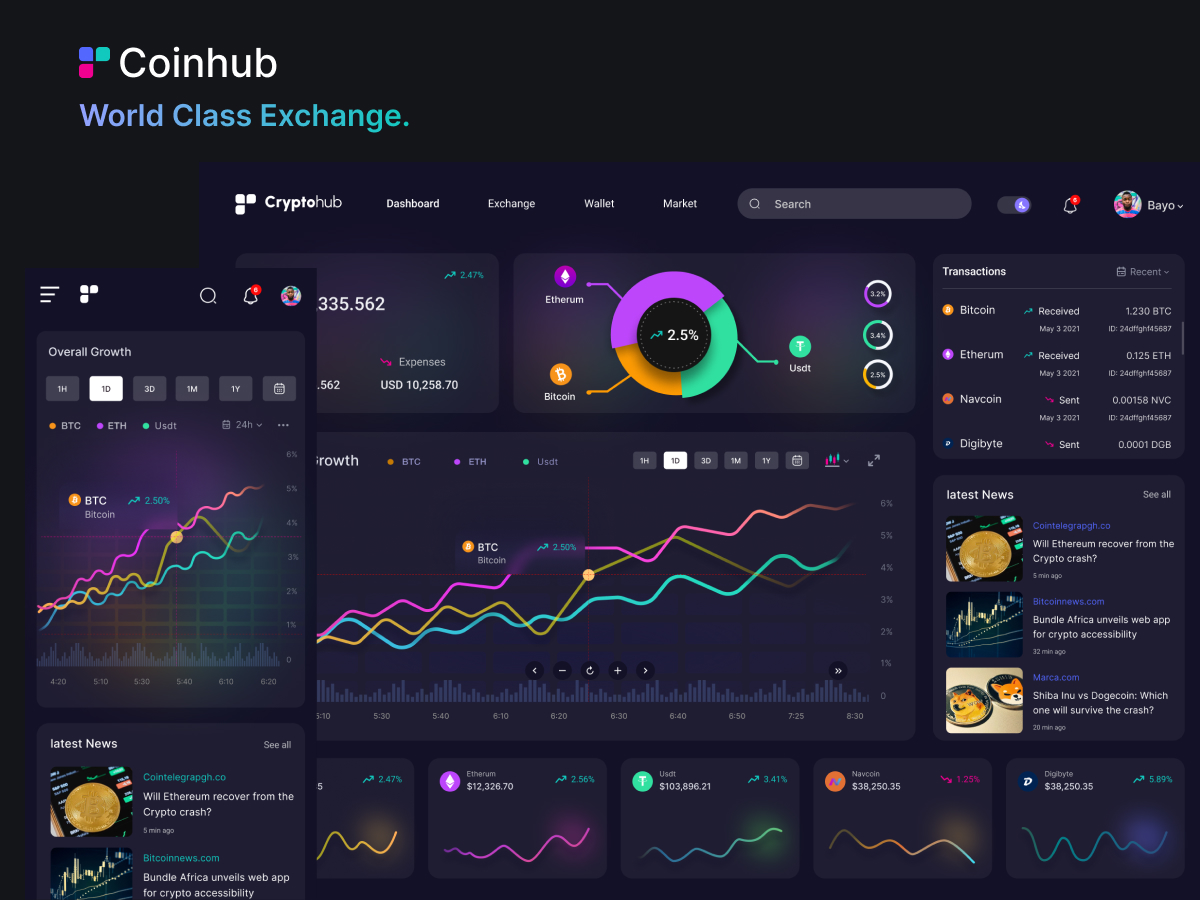
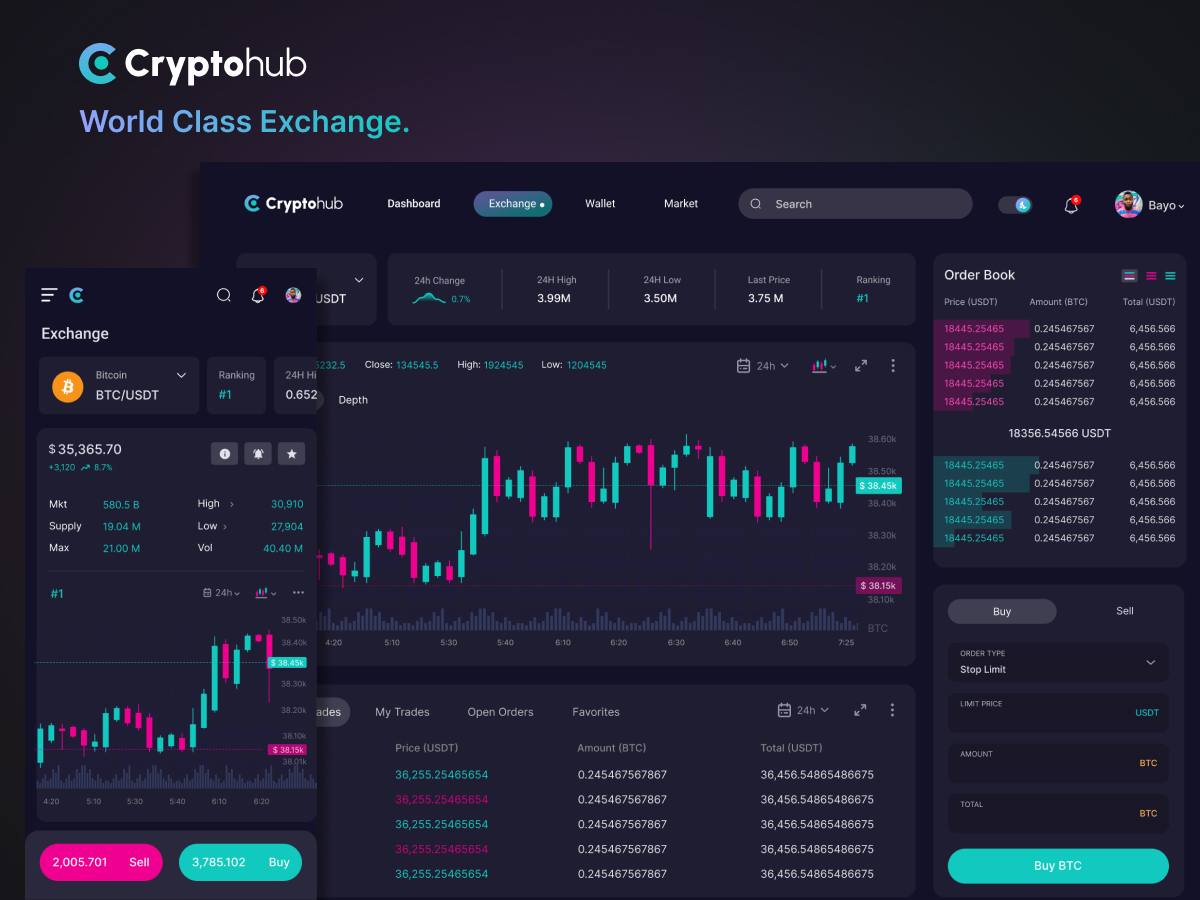
ch

diff --git a/index.html b/index.html
@@ -713,9 +713,22 @@ exciting information about Rwanda
           <div class="portfolio-wrap">
             <img src="assets/img/portfolio/crptov2.jpg" class="img-fluid" alt="">
             <div class="portfolio-info">
-              <h4>Travel mobile app</h4>
+              <h4>Crpto Exchange Webapp</h4>
               <button class="project-btn-mb">
                 <a href="cryptoexchange.html" target="_blank" data-gallery="portfolioDetailsGallery" data-glightbox="type: external" class="portfolio-details-lightbox" title="Portfolio Details">View Project</a>
+              </button>
+            </div>
+          </div>
+        </div>
+
+              
+        <div class="col-lg-6 col-md-6 portfolio-item filter-land">
+          <div class="portfolio-wrap">
+            <img src="assets/img/portfolio/Crypto-landing.jpg" class="img-fluid" alt="">
+            <div class="portfolio-info">
+              <h4>Crypto Exchange Landing Page</h4>
+              <button class="project-btn-mb">
+                <a href="https://switchapp.us/" target="_blank" data-gallery="portfolioDetailsGallery" data-glightbox="type: external" class="portfolio-details-lightbox" title="Portfolio Details">View Project</a>
               </button>
             </div>
           </div>
@@ -733,7 +746,7 @@ exciting information about Rwanda
             </div>
           </div>
         </div>
-        
+      
         <div class="col-lg-6 col-md-6 portfolio-item filter-land">
           <div class="portfolio-wrap">
             <img src="assets/img/portfolio/switch-auto.jpg" class="img-fluid" alt="">
@@ -745,6 +758,8 @@ exciting information about Rwanda
             </div>
           </div>
         </div>
+    
+        
 
         <div class="col-lg-6 col-md-6 portfolio-item filter-land">
           <div class="portfolio-wrap">

diff --git a/cryptoexchange.html b/cryptoexchange.html
@@ -53,16 +53,13 @@
               <div class="swiper-wrapper align-items-center">
 
                 <div class="swiper-slide">
-                  <img src="assets/img/portfolio/cryp-3.jpg" alt="">
+                  <img src="assets/img/portfolio/cryp-1.jpg" alt="">
                 </div>
+
                 <div class="swiper-slide">
                   <img src="assets/img/portfolio/cryp-2.jpg" alt="">
                 </div>
               
-                <div class="swiper-slide">
-                  <img src="assets/img/portfolio/cryp-1.jpg" alt="">
-                </div>
-
               </div>
               <div class="swiper-pagination"></div>
             </div>
